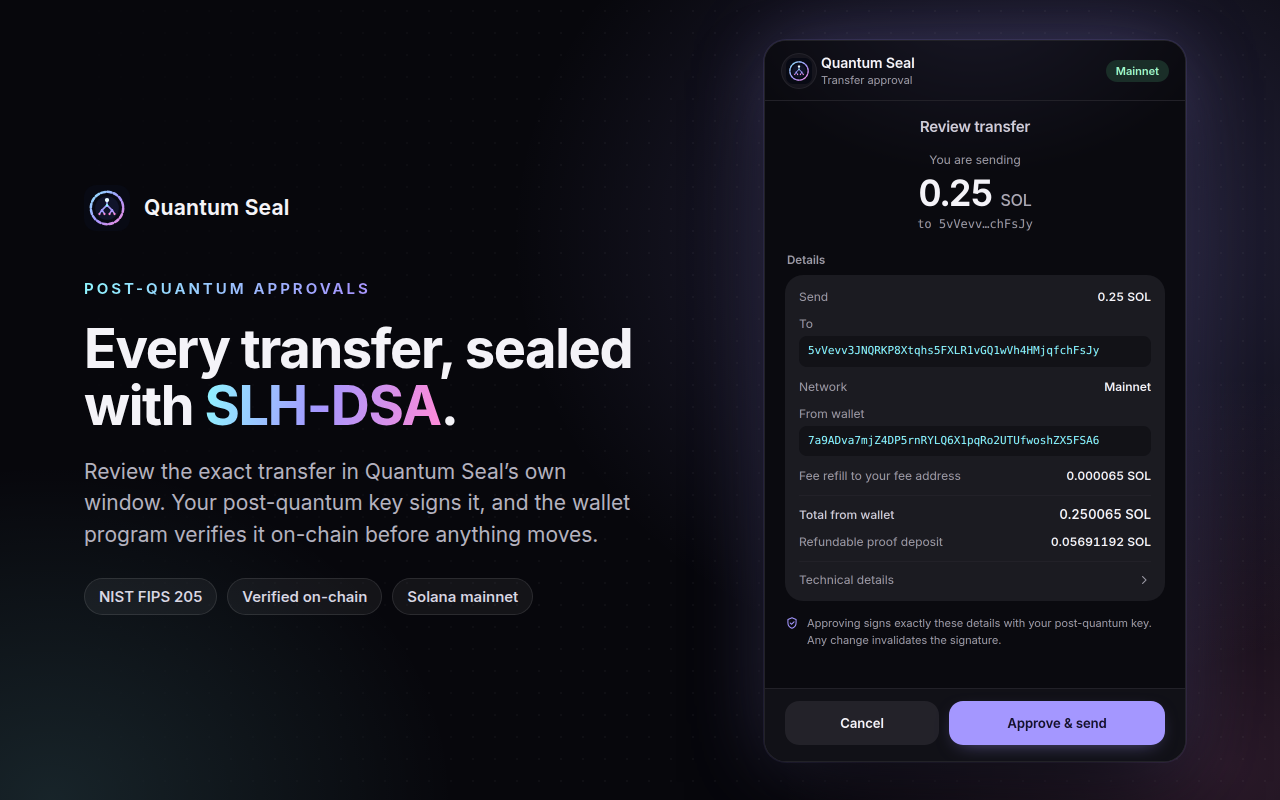
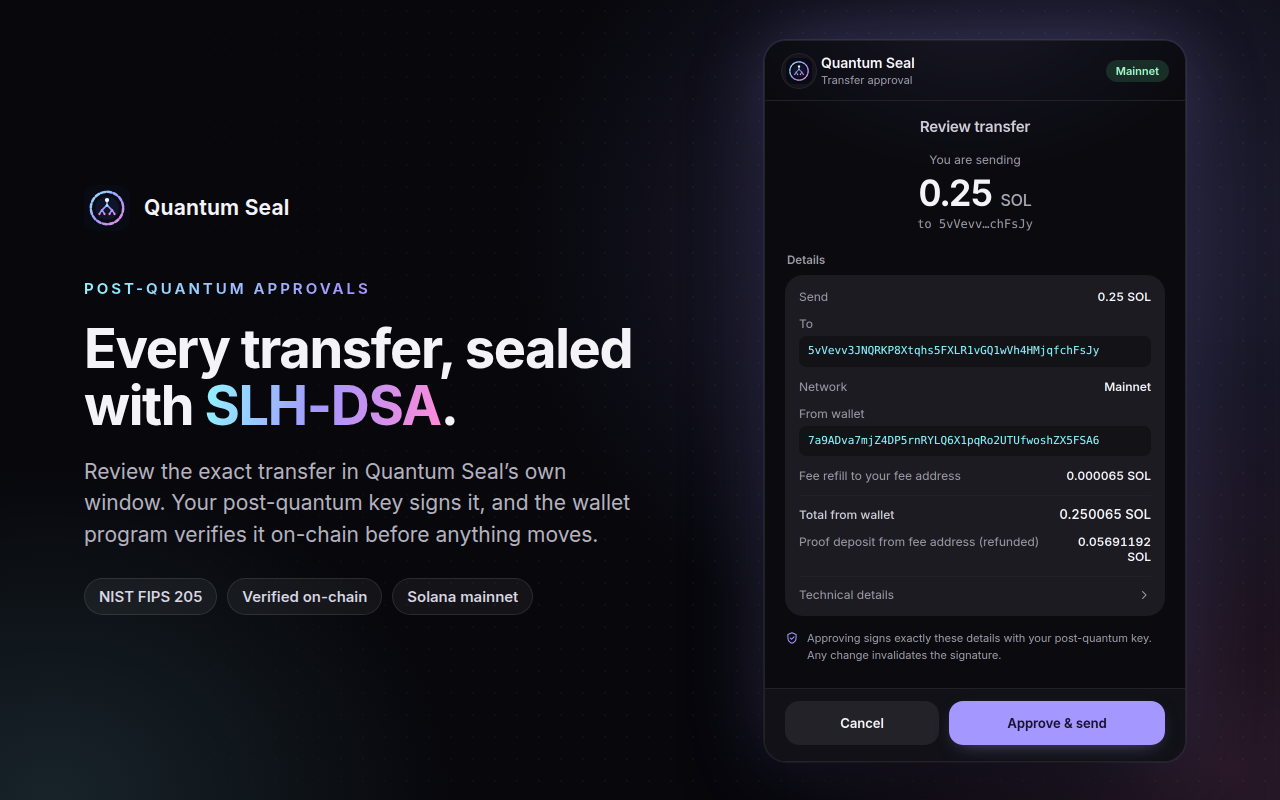
UX fixes from a review of the newer screens
- Removing a never-backed-up wallet no longer asks the user to claim a backup;
  the warning says deposits stay locked; no Activity hint on the lock screen.
- Forgot passphrase: top back arrow, shorter intro.
- Change passphrase: labelled fields, backup consequence shown up front, and a
  Back up now button afterwards.
- Token account offer: honest hint (it is signed right away from the fee
  address), 'Pay X SOL and continue', and a way back.
- Review: discarded-but-could-run shows a time instead of a slot; deposit row
  says it comes from the fee address and hides once returned; Remove from
  Activity.
- Activity: +amount on received rows, network named only when different,
  retry for history errors.

Changed region(s): [[0.625, 0.7188, 0.9062, 0.8438], [0.625, 0.6562, 0.9062, 0.7188]]

diff --git a/src/ui/settings.jsx b/src/ui/settings.jsx
@@ -250,10 +250,11 @@ function PageHeading({ title, onBack }) {
 }
 
 // Passphrase inputs are uncontrolled and cleared after use, as on the welcome screen.
-export function PassphrasePage({ onBack }) {
+export function PassphrasePage({ onBack, onBackup }) {
   const current = useRef(null);
   const next = useRef(null);
   const repeat = useRef(null);
+  const [changed, setChanged] = useState(false);
   const { busy, notice, run } = useAction();
   const change = () =>
     run(async () => {
@@ -270,49 +271,42 @@ export function PassphrasePage({ onBack }) {
         throw error;
       }
       for (const r of [current, next, repeat]) r.current.value = '';
-      return 'Passphrase changed. Backup files saved earlier still open with the old passphrase.';
+      setChanged(true);
+      return 'Passphrase changed.';
     });
   return (
     <>
       <PageHeading title="Change passphrase" onBack={onBack} />
       <div className="form-stack">
-        <input
-          ref={current}
-          className="text-input"
-          type="password"
-          aria-label="Current passphrase"
-          placeholder="Current passphrase"
-          autoComplete="current-password"
-          autoFocus
-        />
-        <input
-          ref={next}
-          className="text-input"
-          type="password"
-          aria-label="New passphrase"
-          placeholder="New passphrase (12+ characters)"
-          autoComplete="new-password"
-        />
-        <input
-          ref={repeat}
-          className="text-input"
-          type="password"
-          aria-label="Repeat new passphrase"
-          placeholder="Repeat new passphrase"
-          autoComplete="new-password"
-          onKeyDown={(e) => e.key === 'Enter' && change()}
-        />
+        <Field label="Current passphrase">
+          <input ref={current} type="password" autoComplete="current-password" autoFocus />
+        </Field>
+        <Field label="New passphrase (12+ characters)">
+          <input ref={next} type="password" autoComplete="new-password" />
+        </Field>
+        <Field label="Repeat new passphrase">
+          <input ref={repeat} type="password" autoComplete="new-password" onKeyDown={(e) => e.key === 'Enter' && change()} />
+        </Field>
+        <p className="hint">
+          <Shield size={14} />
+          <span>Backup files you already saved still open with the old passphrase. Save a new backup afterwards.</span>
+        </p>
         <ActionButton busy={busy} onClick={change}>
           Change passphrase
         </ActionButton>
         <ActionNotice notice={notice} />
+        {changed ? (
+          <button type="button" className="secondary full" onClick={onBackup}>
+            Back up now
+          </button>
+        ) : null}
       </div>
     </>
   );
 }
 
 // Removing the wallet, from Settings or from the lock screen ("Forgot passphrase?").
-export function RemoveWallet({ onRemoved, intro }) {
+export function RemoveWallet({ onRemoved, intro, locked = false }) {
   const [ack, setAck] = useState(false);
   const [typed, setTyped] = useState('');
   const open = useLoad(async () => ({ ...(await service.unfinishedSends()), info: await vault.publicInfo() }), []);
@@ -338,9 +332,10 @@ export function RemoveWallet({ onRemoved, intro }) {
       {pending ? (
         <Notice kind="warn">
           {pending} send{pending === 1 ? ' is' : 's are'} not finished
-          {open.data.lamports > 0n ? `, holding ${solDisplay(open.data.lamports, 6)} SOL in proof deposits` : ''}. Finish
-          or discard {pending === 1 ? 'it' : 'them'} in Activity first if you can; after removing, restoring the backup
+          {open.data.lamports > 0n ? `, holding ${solDisplay(open.data.lamports, 6)} SOL in proof deposits` : ''}. After
+          removal {open.data.lamports > 0n ? 'that SOL stays locked in its proof account, and ' : ''}restoring the backup
           does not bring {pending === 1 ? 'it' : 'them'} back.
+          {locked ? '' : ` Finish or discard ${pending === 1 ? 'it' : 'them'} in Activity first.`}
         </Notice>
       ) : null}
       {unsaved ? (
@@ -356,7 +351,11 @@ export function RemoveWallet({ onRemoved, intro }) {
       ) : null}
       <label className="check-row">
         <input type="checkbox" checked={ack} onChange={(e) => setAck(e.target.checked)} />
-        <span>I have my backup file and its passphrase.</span>
+        <span>
+          {unsaved
+            ? 'I understand this wallet and its funds cannot be recovered without a backup.'
+            : 'I have my backup file and its passphrase.'}
+        </span>
       </label>
       <ActionButton
         className="danger full"
@@ -370,6 +369,8 @@ export function RemoveWallet({ onRemoved, intro }) {
     </div>
   );
 }
+
+export { PageHeading };
 
 export function RemovePage({ onBack, onRemoved }) {
   return (

diff --git a/src/ui/home.jsx b/src/ui/home.jsx
@@ -403,12 +403,13 @@ const STATUS_LABEL = {
 };
 const STATUS_ICON = { failed: Alert, uncertain: Alert, superseded: Close, expired: Clock, discarded: Close };
 
-export function ActivityTab() {
+export function ActivityTab({ cluster }) {
   const [version, setVersion] = useState(0);
   useEffect(() => onSendsChange(() => setVersion((v) => v + 1)), []);
   const sends = useLoad(() => service.listSends(), [version]);
   // Read from chain history: slower, and a failure here must not hide the sends.
-  const receipts = useLoad(() => service.listReceipts(), []);
+  const [receiptsTry, setReceiptsTry] = useState(0);
+  const receipts = useLoad(() => service.listReceipts(), [receiptsTry]);
   const items = [
     ...(sends.data ?? []).map((s) => ({ kind: 'send', key: s.id, at: s.createdAt, s })),
     ...(receipts.data ?? []).map((r) => ({ kind: 'receipt', key: r.id, at: r.at, r })),
@@ -422,7 +423,14 @@ export function ActivityTab() {
       </div>
       {sends.loading && !sends.data ? <Loading label="Loading activity" /> : null}
       {sends.error ? <Notice kind="error">{errorText(sends.error)}</Notice> : null}
-      {receipts.error ? <Notice kind="warn">Received transfers could not be loaded: {errorText(receipts.error)}</Notice> : null}
+      {receipts.error ? (
+        <div className="row-notice">
+          <Notice kind="warn">Couldn’t load received transfers. {errorText(receipts.error)}</Notice>
+          <button type="button" className="secondary small-button" disabled={receipts.loading} onClick={() => setReceiptsTry((n) => n + 1)}>
+            Retry
+          </button>
+        </div>
+      ) : null}
       {settled && !items.length ? (
         <Empty level={2} icon={<Inbox size={22} />} title="No activity yet">
           <p>Transfers to and from this wallet appear here.</p>
@@ -431,7 +439,9 @@ export function ActivityTab() {
       {items.length ? (
         <ul className="activity-list">
           {items.map((item) => (
-            <li key={item.key}>{item.kind === 'send' ? <SendRow s={item.s} /> : <ReceiptRow r={item.r} />}</li>
+            <li key={item.key}>
+              {item.kind === 'send' ? <SendRow s={item.s} current={cluster} /> : <ReceiptRow r={item.r} current={cluster} />}
+            </li>
           ))}
         </ul>
       ) : null}
@@ -445,7 +455,10 @@ export function ActivityTab() {
   );
 }
 
-function SendRow({ s }) {
+// The network is named only when it is not the one being viewed.
+const otherNetwork = (c, current) => (c && c !== current ? ` · ${BUILT_IN[c]?.label ?? c}` : '');
+
+function SendRow({ s, current }) {
   const Icon = STATUS_ICON[s.status] ?? SendArrow;
   const asset = s.display.asset === 'SOL' ? 'SOL' : tokenLabel(s.cluster, s.display.asset);
   return (
@@ -458,7 +471,8 @@ function SendRow({ s }) {
           Send {s.display.amount} {asset}
         </strong>
         <small>
-          To {short(s.display.to)} · {BUILT_IN[s.cluster]?.label ?? s.cluster} · {when(s.createdAt)}
+          To {short(s.display.to)}
+          {otherNetwork(s.cluster, current)} · {when(s.createdAt)}
         </small>
       </span>
       <span className={`pill ${s.status}`}>{STATUS_LABEL[s.status] ?? s.status}</span>
@@ -467,7 +481,7 @@ function SendRow({ s }) {
   );
 }
 
-function ReceiptRow({ r }) {
+function ReceiptRow({ r, current }) {
   const asset = r.asset === 'SOL' ? 'SOL' : tokenLabel(r.cluster, r.asset);
   const from = r.fromFeeAddress ? 'your fee address' : short(r.from);
   return (
@@ -486,11 +500,12 @@ function ReceiptRow({ r }) {
           Received {r.amount} {asset}
         </strong>
         <small>
-          From {from} · {BUILT_IN[r.cluster]?.label ?? r.cluster}
+          From {from}
+          {otherNetwork(r.cluster, current)}
           {r.at ? ` · ${when(r.at)}` : ''}
         </small>
       </span>
-      <span className="pill received">Received</span>
+      <span className="pill received">+{r.amount}</span>
       <External size={14} className="row-chevron" />
     </a>
   );

diff --git a/src/ui/review.jsx b/src/ui/review.jsx
@@ -5,7 +5,7 @@ import { createRoot } from 'react-dom/client';
 import { decodeIntent, fromHex, hex, intentDigest } from 'quantum-seal-wallet/codec';
 import { BUILT_IN, explorerUrl } from '../networks.js';
 import { tokenLabel } from '../tokens.js';
-import { executeSignature, mayStillExecute } from '../wallet-service.js';
+import { executeSignature, mayStillExecute, EXPIRY_HORIZON_SLOTS } from '../wallet-service.js';
 import {
   vault,
   service,
@@ -256,7 +256,7 @@ function Review() {
   else if (notSent && pending && !running)
     // Kept on purpose until it can no longer run, so there is nothing to remove yet.
     footer = (
-      <button type="button" className="primary" onClick={() => window.close()}>
+      <button type="button" className="secondary" onClick={() => window.close()}>
         Close
       </button>
     );
@@ -264,7 +264,7 @@ function Review() {
     footer = (
       <>
         <button type="button" className="secondary" onClick={discard}>
-          Remove
+          Remove from Activity
         </button>
         <button type="button" className="primary" onClick={() => window.close()}>
           Close
@@ -326,7 +326,7 @@ function Review() {
                   : record.status === 'expired'
                     ? 'This approval expired before it could run. No funds left your wallet for it.'
                     : pending
-                      ? `Its signed approval was already published while uploading, so anyone holding it could still execute this transfer until slot ${record.expiry}, unless your wallet sends something else first. Activity shows it as Sent if that happens.`
+                      ? `Its signed approval was already published, so it could still run until about ${runsUntil(record)}. Sending anything else from this wallet cancels it. If it runs, Activity shows it as Sent.`
                       : 'You discarded this send.'}
               </p>
               {record.reclaimSignature ? (
@@ -423,7 +423,9 @@ function Review() {
           {view.kind === 'sol' && view.lamports !== undefined && view.fee && (inReview || record.status === 'done') ? (
             <KeyValue label="Total from wallet" strong>{`${lamportsToSol(view.lamports + view.fee.lamports)} SOL`}</KeyValue>
           ) : null}
-          <KeyValue label="Refundable proof deposit">{`${lamportsToSol(record.refundableRentLamports)} SOL`}</KeyValue>
+          {inReview || (['signed', 'submitting', 'failed', 'uncertain'].includes(record.status) && record.reclaimed !== true) ? (
+            <KeyValue label="Proof deposit from fee address (refunded)">{`${lamportsToSol(record.refundableRentLamports)} SOL`}</KeyValue>
+          ) : null}
           <details className="tech-details">
             <summary>
               <span>Technical details</span>
@@ -464,6 +466,12 @@ function CloseFooter() {
       </button>
     </footer>
   );
+}
+
+// Approvals expire a fixed number of slots after they were prepared (about 0.4 s each).
+function runsUntil(record) {
+  const at = new Date(Date.parse(record.createdAt) + Number(EXPIRY_HORIZON_SLOTS) * 400);
+  return at.toLocaleTimeString([], { hour: '2-digit', minute: '2-digit' });
 }
 
 function Shell({ network, children }) {

diff --git a/src/ui/onboarding.jsx b/src/ui/onboarding.jsx
@@ -3,7 +3,7 @@
 import { useRef, useState } from 'react';
 import { vault } from './common.js';
 import { ActionButton, ActionNotice, Mark, useAction } from './components.jsx';
-import { RemoveWallet } from './settings.jsx';
+import { PageHeading, RemoveWallet } from './settings.jsx';
 import { Check, Shield, Upload } from './icons.jsx';
 
 const MIN_PASSPHRASE = 12;
@@ -157,21 +157,12 @@ export function Unlock({ onDone }) {
     return (
       <div className="gate">
         <main className="gate-body">
-          <div className="page-heading">
-            <h1>Forgot your passphrase?</h1>
-          </div>
+          <PageHeading title="Forgot your passphrase?" onBack={() => setForgot(false)} />
           <RemoveWallet
+            locked
             onRemoved={onDone}
-            intro={
-              <p>
-                Nobody can recover it: the passphrase is what decrypts your keys. To get back in, remove the wallet from
-                this browser and restore it from your backup file.
-              </p>
-            }
+            intro={<p>Nobody can recover a passphrase, including Quantum Seal.</p>}
           />
-          <button type="button" className="ghost full" onClick={() => setForgot(false)}>
-            Back to unlock
-          </button>
         </main>
       </div>
     );

diff --git a/src/ui/send.jsx b/src/ui/send.jsx
@@ -178,8 +178,11 @@ export function SendPage({ onBack }) {
                 </p>
               </div>
               <ActionButton className="secondary" busy={busy} onClick={createAndReview}>
-                Create it and review
+                Pay {solDisplay(needsAccount.rentLamports, 8)} SOL and continue
               </ActionButton>
+              <button type="button" className="ghost" disabled={busy} onClick={() => setNeedsAccount(null)}>
+                Use a different recipient
+              </button>
             </div>
           ) : (
             <ActionButton busy={busy} disabled={!to.trim() || !amount.trim()} onClick={review}>
@@ -188,7 +191,11 @@ export function SendPage({ onBack }) {
           )}
           <p className="hint">
             <Shield size={14} />
-            <span>A separate window shows the exact transfer before anything is signed.</span>
+            <span>
+              {needsAccount
+                ? 'Creating the account is signed right away from your fee address. The transfer itself is still reviewed in a separate window.'
+                : 'A separate window shows the exact transfer before anything is signed.'}
+            </span>
           </p>
         </div>
       ) : null}

diff --git a/src/ui/popup.jsx b/src/ui/popup.jsx
@@ -166,7 +166,7 @@ function Wallet({ onLock, onRemoved }) {
             }}
           />
         ) : null}
-        {page === 'activity' ? <ActivityTab /> : null}
+        {page === 'activity' ? <ActivityTab cluster={cluster} /> : null}
         {page === 'send' ? <SendPage onBack={() => go('home')} /> : null}
         {page === 'settings' ? (
           <SettingsPage
@@ -181,7 +181,15 @@ function Wallet({ onLock, onRemoved }) {
         />
         ) : null}
         {page === 'backup' ? <BackupPage onBack={() => go(backupReturn.current)} /> : null}
-        {page === 'passphrase' ? <PassphrasePage onBack={() => go('settings')} /> : null}
+        {page === 'passphrase' ? (
+          <PassphrasePage
+            onBack={() => go('settings')}
+            onBackup={() => {
+              backupReturn.current = 'settings';
+              go('backup');
+            }}
+          />
+        ) : null}
         {page === 'remove' ? <RemovePage onBack={() => go('settings')} onRemoved={onRemoved} /> : null}
       </main>
 

diff --git a/src/ui/styles.css b/src/ui/styles.css
@@ -481,3 +481,5 @@ dialog.sheet[open]::backdrop { animation: fade .2s ease-out; }
 .recent-list { display: flex; flex-wrap: wrap; gap: 6px; }
 .recent-chip { padding: 6px 11px; border-radius: 99px; background: var(--surface); color: var(--ink-2); font-family: var(--mono); font-size: 11px; box-shadow: inset 0 0 0 1px var(--line); }
 .recent-chip:hover { background: var(--surface-hover); color: var(--ink); }
+.row-notice { display: flex; align-items: center; gap: 8px; }
+.row-notice .notice { flex: 1; }
